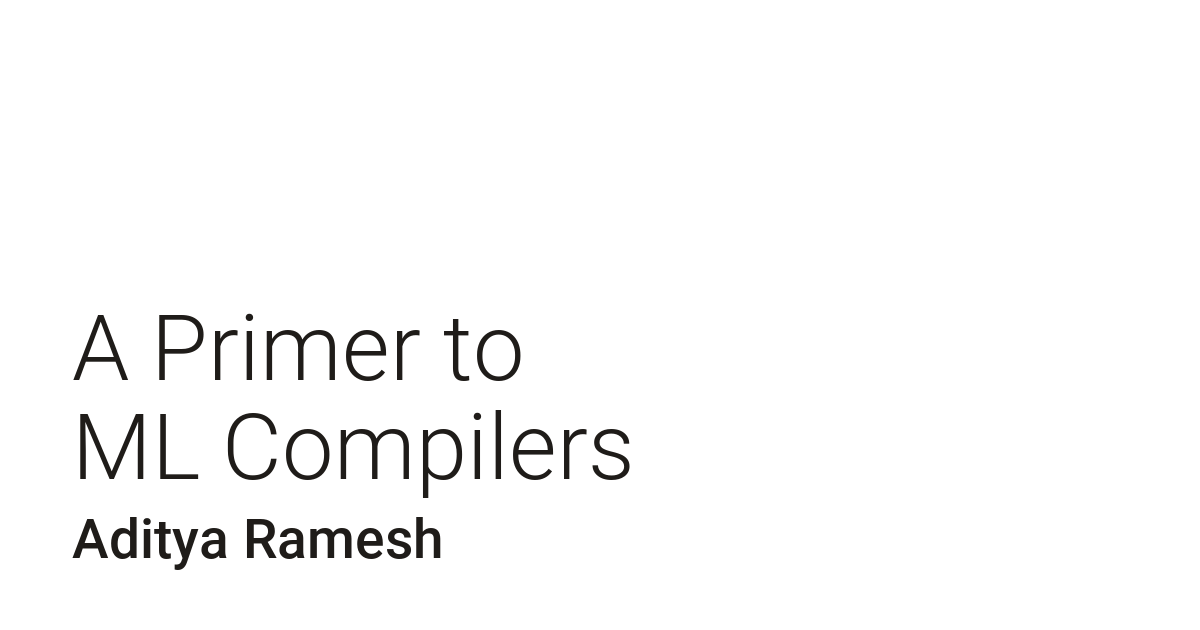
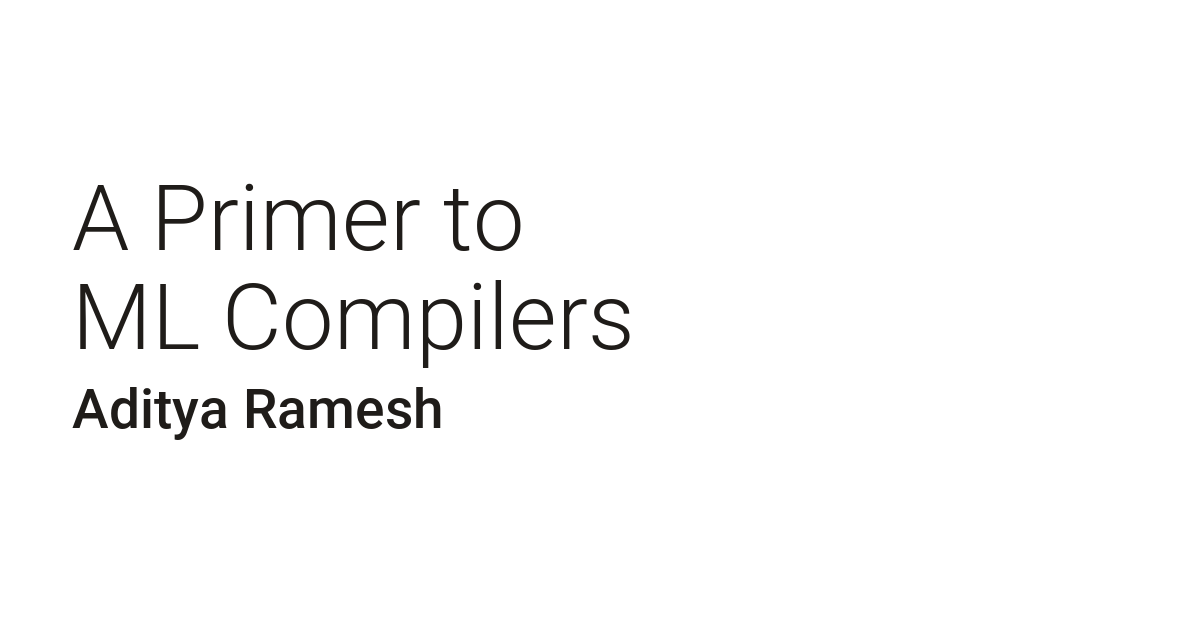
Updated thumbnail

Changed region(s): [[0.0617, 0.4524, 0.5242, 0.7841], [0.0617, 0.2714, 0.4317, 0.4222], [0.0617, 0.8143, 0.37, 0.9048]]

diff --git a/index.html b/index.html
@@ -4,16 +4,13 @@
   <meta charset="utf-8" />
   <meta name="viewport" content="width=device-width, initial-scale=1" />
   <title>Aditya Ramesh</title>
-  <meta name="description" content="aramesh10.github.io" />
   <meta name="author" content="Aditya Ramesh" />
   <meta property="og:type" content="website" />
   <meta property="og:title" content="Aditya Ramesh" />
-  <meta property="og:description" content="aramesh10.github.io" />
   <meta property="og:url" content="https://aramesh10.github.io/" />
   <meta property="og:image" content="https://aramesh10.github.io/thumbnail.png" />
   <meta name="twitter:card" content="summary_large_image" />
   <meta name="twitter:title" content="Aditya Ramesh" />
-  <meta name="twitter:description" content="aramesh10.github.io" />
   <meta name="twitter:image" content="https://aramesh10.github.io/thumbnail.png" />
   <style>
     body {

diff --git a/_scripts/generate_thumbnail.py b/_scripts/generate_thumbnail.py
@@ -110,7 +110,7 @@ def render(title, out_path):
 
     # Stack from the bottom up, anchored on baselines, with tight leading.
     line_height = int(title_font.size * 1.08)
-    baseline = HEIGHT - MARGIN
+    baseline = HEIGHT - MARGIN - 130  # clear the title overlay some sites draw at the bottom
     if show_author:
         draw.text((MARGIN, baseline), AUTHOR, font=author_font, fill=AUTHOR_COLOR, anchor="ls")
         baseline -= int(author_font.size * 1.45)
